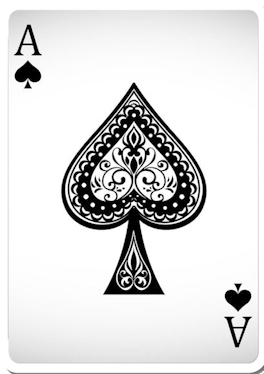
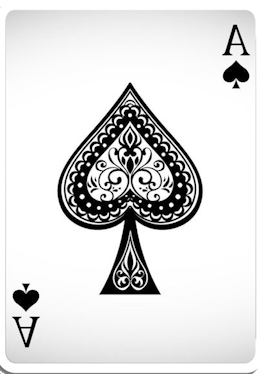
second card added. flipping is ok

diff --git a/src/scenes/Level.ts b/src/scenes/Level.ts
@@ -4,46 +4,91 @@ import { Emitter, EmitterConfig } from "pixi-particles";
 import gsap from "gsap";
 import { Card } from "./Card";
 import { lvl1 } from "./../levels/Level_1_config";
+import { config } from "../MainGameConfig";
 
 export class Level extends Container implements IScene {
 
+    private allCards: Card[] = [];
     private cardsSelected: Card[] = [];
     private currentLevel: typeof lvl1;
 
     constructor() {
         super();
         this.currentLevel = lvl1;
-        for (let index = 0; index < 30; index++) {
+        for (let index = 0; index < this.currentLevel.cardsCount; index++) {
+            let type = this.getType();
             let card = new Card();
+            this.allCards.push(card);
             card.x = (100 * (index % 5)) + card.width / 2;
             card.y = (100 + 100 * (Math.floor(index / 5))) + card.height / 2;
             this.addChild(card);
             card.card.on('pointerdown', () => {
-                // TODO - disable all other cards for card flip
                 this.cardsSelected.push(card);
-
-                // this.cardsSelected.forEach(card => {
+                this.setInteactive(false);
                 card.state = "open";
-                card.flip();
-                // });
+                card.flip(type);
 
-                //on unsuccessful attempt && second card open only!
                 if (this.cardsSelected.length === 2) {
-                    gsap.delayedCall(0.75, () => {
-                        this.cardsSelected.forEach(card => {
-                            card.state = this.cardsSelected.length === 2 ? "hidden" : "open";
-                            card.flip();
-                        });
-                        this.cardsSelected = [];
+
+                    this.setInteactive(false);
+
+                    if (this.cardsSelected[0].type === this.cardsSelected[1].type) {
+                        //success
+                        gsap.delayedCall(config.cardFlipDuration * 1.1, () => {
+                            this.cardsSelected.forEach(card => {
+                                card.state = "success";
+                            });
+                            this.setInteactive(true);
+                            this.cardsSelected = [];
+                        })
+                    }
+                    else {
+                        gsap.delayedCall(0.75, () => {
+                            this.cardsSelected.forEach(card => {
+                                card.state = "hidden";
+                                card.flip(type);
+                                gsap.delayedCall(config.cardFlipDuration * 1.1, () => {
+                                    this.setInteactive(true);
+                                })
+                            });
+                            this.cardsSelected = [];
+                        })
+                    }
+                } else {
+                    gsap.delayedCall(config.cardFlipDuration * 1.1, () => {
+                        this.setInteactive(true);
                     })
                 }
             });
         }
     }
 
-    // private cardFlip(): void {
-    //    
-    // }
+    private getType(): string {
+        let typesCount = this.currentLevel.in_lvl_card_ids.length;
+        let typeFound = false;
+        let type = "";
+        while (!typeFound) {
+            let rnd = Math.floor(Math.random() * typesCount);
+            if (this.currentLevel.in_lvl_card_ids[rnd].count > 0) {
+                typeFound = true;
+                this.currentLevel.in_lvl_card_ids[rnd].count--;
+                type = this.currentLevel.in_lvl_card_ids[rnd].type;
+            }
+        }
+        return type;
+    }
+
+    private setInteactive(interactive: boolean): void {
+        for (let index = 0; index < this.currentLevel.cardsCount; index++) {
+            if (interactive === false) {
+                this.allCards[index].card.buttonMode = false;
+                this.allCards[index].card.interactive = false;
+            } else {
+                this.allCards[index].card.buttonMode = this.allCards[index].state !== "success";
+                this.allCards[index].card.interactive = this.allCards[index].state !== "success";
+            }
+        }
+    }
 
     public addBG() {
 

diff --git a/src/MainGameConfig.ts b/src/MainGameConfig.ts
@@ -1,62 +1,4 @@
 export const config: any = {
-
-    rendererResolution: window.devicePixelRatio,
-
-    //skip login phase ...for tests
-    hasLogin: false,
-
     mainFont: 'Risque',
-
-    //for tests and adding teams to DB
-    // addTeam: false,
-
-    //visibility  delay between game phases
-    fadeTimeBetweenPhases: 0.5,
-
-    // gridHasMask: true,            // UNUSED!!!
-
-    // predetermened grid for debug
-    isGridInDebug: false,
-
-    // temporary
-    isPlayerHome: true,
-
-    debugGrid: [
-        ["ball_purple", "red_card", "ball_purple", "ball_blue", "red_cross", "ball_yellow"],
-        ["yellow_card", "yellow_card", "yellow_card", "ball_red", "ball_purple", "ball_red"],
-        ["red_card", "yellow_card", "ball_red", "ball_yellow", "red_card", "ball_green"],
-        ["ball_purple", "ball_purple", "yellow_card", "ball_red", "ball_purple", "ball_blue"],
-        ["ball_yellow", "red_cross", "ball_blue", "ball_yellow", "ball_blue", "yellow_card"],
-        ["ball_yellow", "ball_red", "red_card", "yellow_card", "red_card", "ball_red"],
-        ["ball_red", "ball_blue", "ball_red", "ball_red", "red_cross", "red_card"],
-        ["ball_blue", "red_card", "ball_purple", "red_cross", "ball_blue", "red_cross"]
-    ],
-    roundsInMatch: 15,
-
-    // this may be for debug and test or may be default
-    randomCardColors: true,
-
-    //win chance depending on clubs power difference.random num from 1 to 100 is generated
-    winChance: {
-        6: { "win": 95, "tie": 99, "lose": 100 },
-        5: { "win": 85, "tie": 95, "lose": 100 },
-        4: { "win": 75, "tie": 90, "lose": 100 },
-        3: { "win": 65, "tie": 85, "lose": 100 },
-        2: { "win": 55, "tie": 80, "lose": 100 },
-        1: { "win": 45, "tie": 75, "lose": 100 },
-        0: { "win": 30, "tie": 70, "lose": 100 },
-    },
-
-    // NOTE!
-    // color of every newly created block - for tests!
-    // if this is not null - set isGridInDebug to true, otherwise game will crash!!!!
-    predefinedBlockColor: null,
-    // predefinedBlockColor: "red_card",
-
-    maxInjuryDuration: 5,
-    yellowCardsToMissGame: 5,
-    initialDefensesCount: 3,
-    APIEndPoint: `https://test-qqw1.onrender.com/`
-    // APIEndPoint: `https://football-match3-api.herokuapp.com/`
-    // APIEndPoint: `http://localhost:9000/`
+    cardFlipDuration: 0.2
 }

diff --git a/src/scenes/Card.ts b/src/scenes/Card.ts
@@ -1,12 +1,13 @@
-import { IScene, App } from "../App";
-import { Container, Sprite, Graphics, Loader, Text, TextStyle, Texture, ParticleContainer } from "pixi.js";
-import { Emitter, EmitterConfig } from "pixi-particles";
+import { Container, Sprite, Texture } from "pixi.js";
 import gsap from "gsap";
+import { config } from "../MainGameConfig";
 
 export class Card extends Container {
 
     public card: Sprite;
     public state: string = "hidden";
+    public type: string = "";
+    public isOpen: boolean = false;
 
     constructor() {
         super();
@@ -26,18 +27,19 @@ export class Card extends Container {
         this.card.buttonMode = true;
     }
 
-    public flip(): void {
+    public flip(type: string): void {
+        this.type = type;
         let startScale = this.card.scale.x;
         let startedFlippling = false;
 
-        let flipTween = gsap.to(this.card.scale, 0.2,
+        let flipTween = gsap.to(this.card.scale, config.cardFlipDuration,
             {
                 x: startScale * -1,
                 ease: "linear",
                 onUpdate: () => {
                     if (flipTween.progress() > 0.4 && !startedFlippling) {
                         startedFlippling = true;
-                        this.card.texture = Texture.from( this.state === "hidden" ? "cardBack" : "ace");
+                        this.card.texture = Texture.from(this.state === "hidden" ? "cardBack" : type);
                     }
                 },
                 onComplete: () => { },

diff --git a/src/levels/Level_1_config.ts b/src/levels/Level_1_config.ts
@@ -7,10 +7,15 @@ export const lvl1 = {
         [-1, -1, -1, -1, -1],
         [-1, -1, -1, -1, -1],
     ],
+    "cardsCount": 30,
     "in_lvl_card_ids": [
-       {
-        "A": 15,
-        "K": 15,
-       }
+        {
+            "type": "ace",
+            "count": 14
+        },
+        {
+            "type": "K",
+            "count": 16
+        }
     ]
 }
